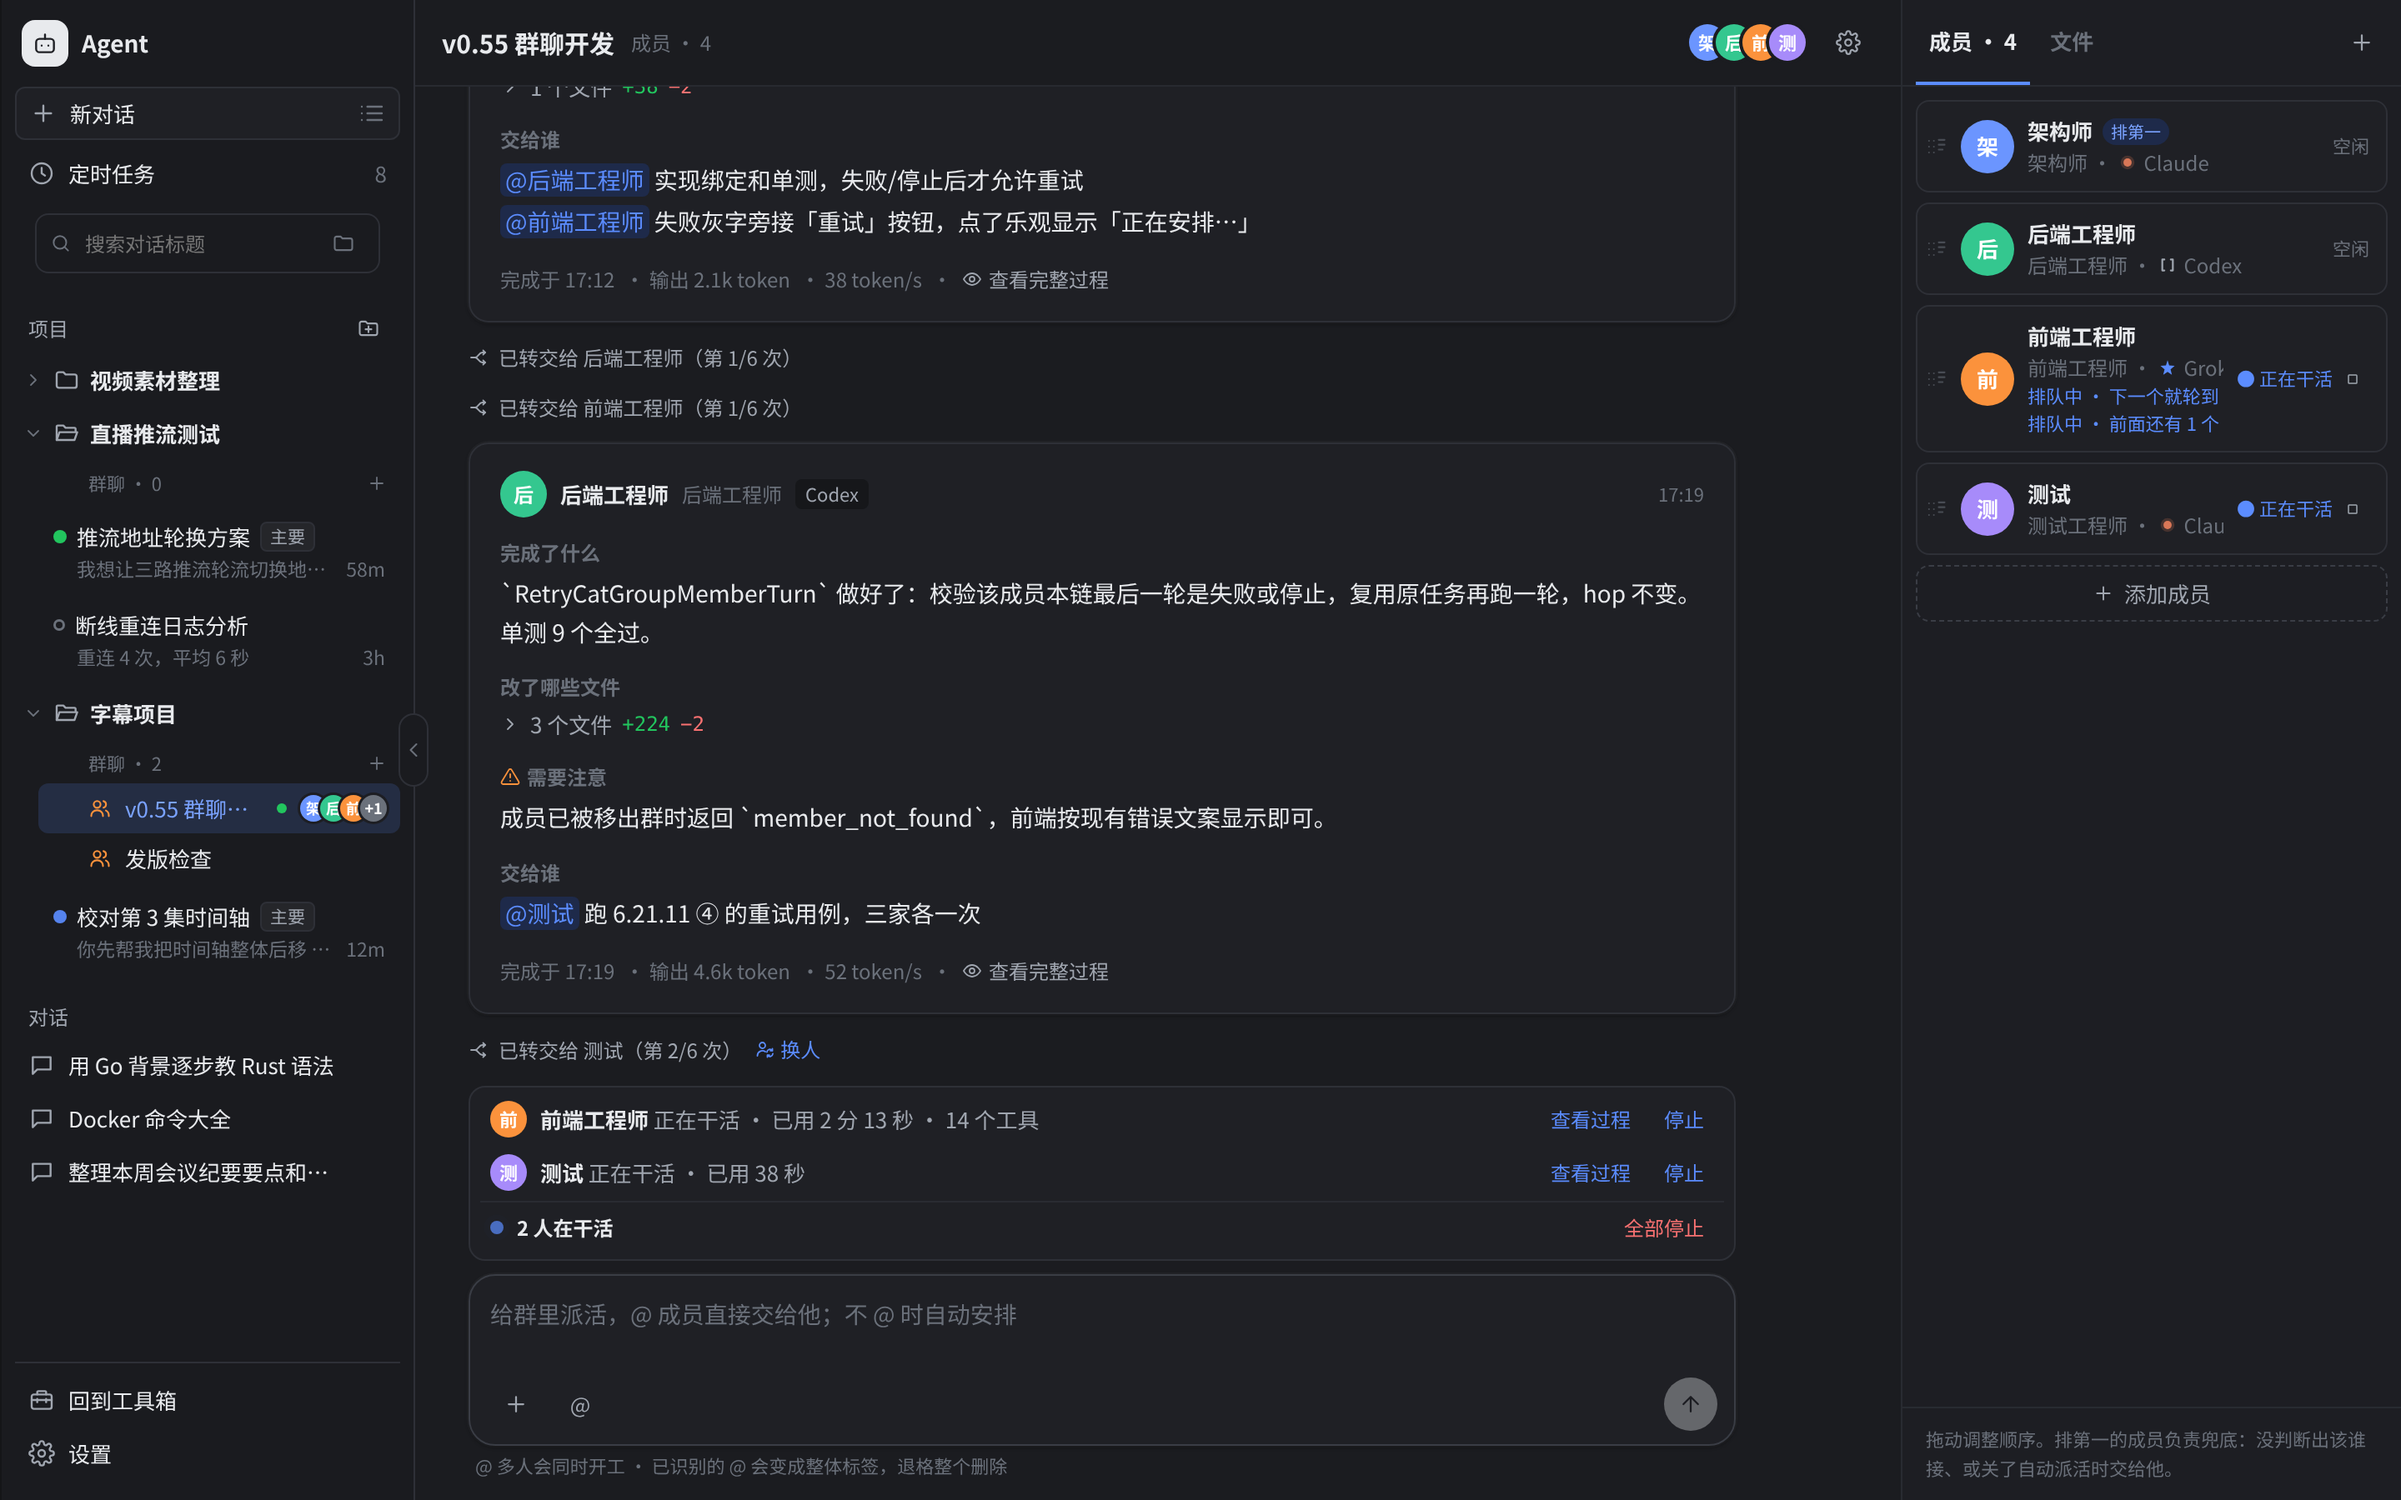
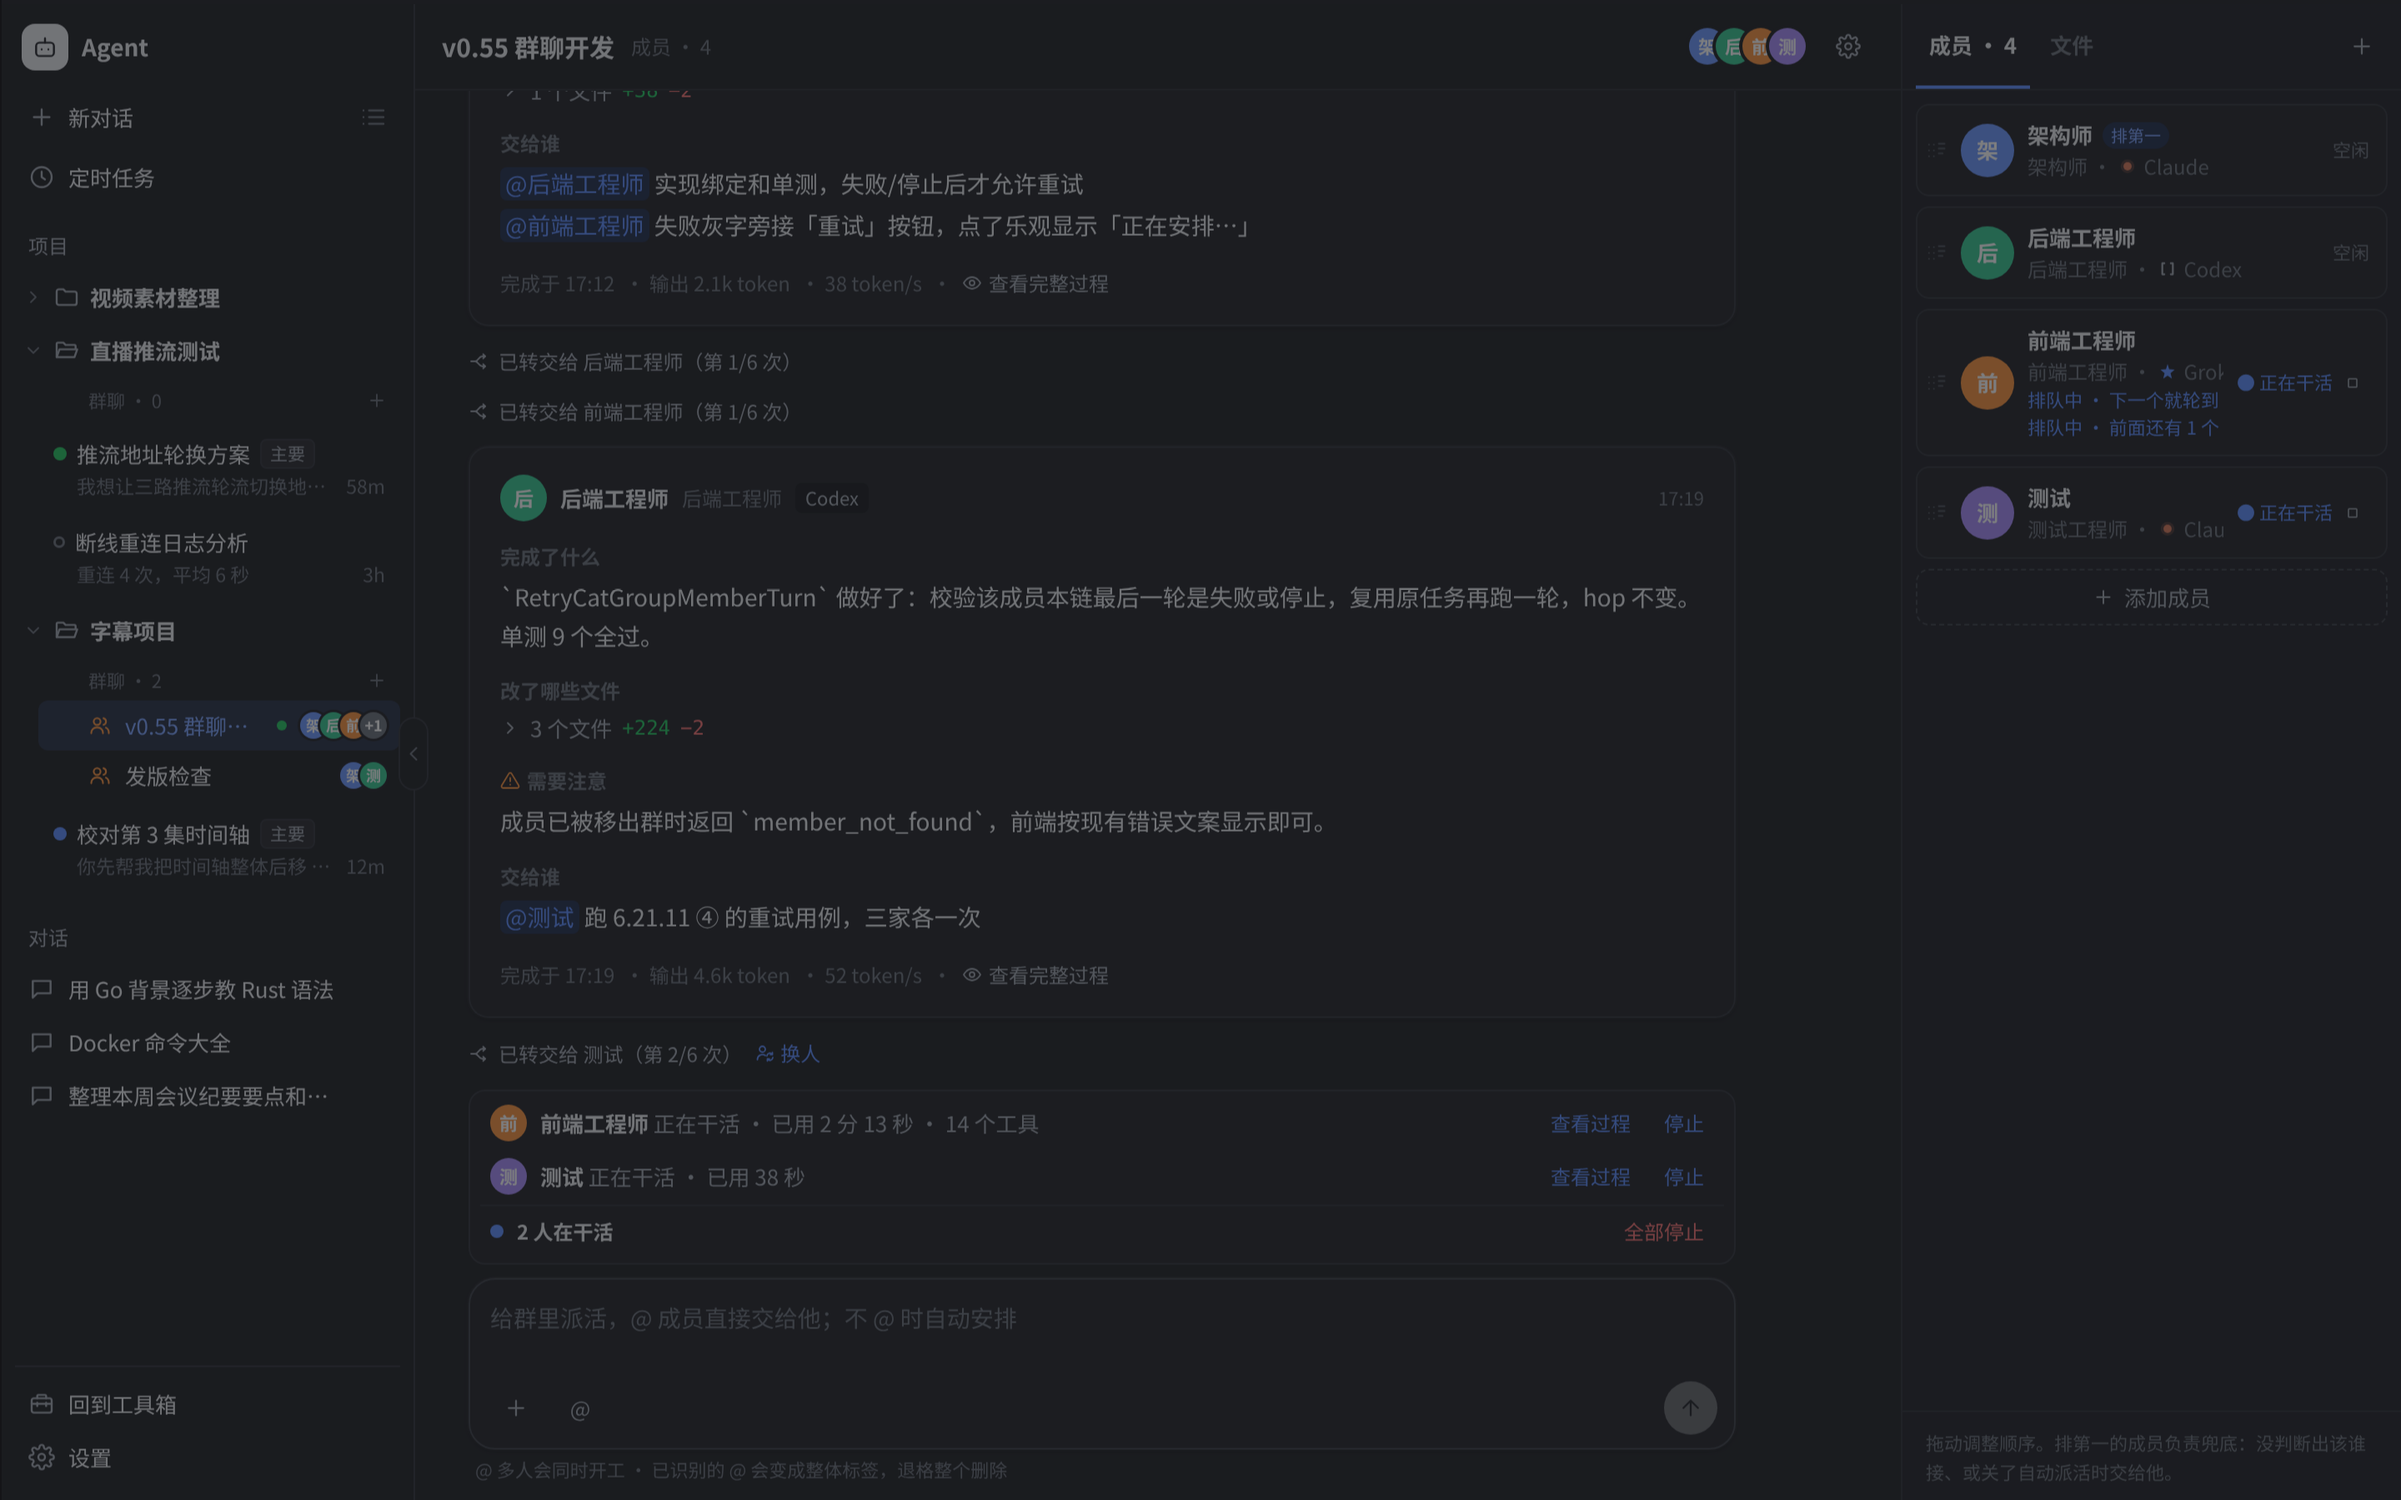
fix(cat-group): v0.55.7 bindings integration (status/queueLength types, preview dialog placement) + shots

diff --git a/frontend/src/components/cat/group/CatGroupMembers.vue b/frontend/src/components/cat/group/CatGroupMembers.vue
@@ -32,7 +32,6 @@
         <span v-else-if="f.overreach" class="cg-tag over">{{ t('cat.groupChat.tagOverreach') }}</span>
       </button>
     </div>
-    <CatPreviewDialog v-model:open="previewOn" :file="previewFile" />
     <div v-else class="cg-mem-list" role="list">
       <div
         v-for="(m, i) in store.membersSorted"
@@ -79,6 +78,7 @@
       <button type="button" class="cg-add" data-testid="cat-group-add-member" @click="emit('add')"><FIcon name="plus" :size="13" />{{ t('cat.groupChat.addMember') }}</button>
     </div>
     <div v-if="tab === 'm'" class="cg-mem-ft">{{ t('cat.groupChat.membersFoot') }}</div>
+    <CatPreviewDialog v-model:open="previewOn" :file="previewFile" />
   </aside>
 </template>
 
@@ -121,7 +121,8 @@ const toggle = (id: string) => {
   open.clear()
   if (!was) open.add(id)
 }
-const tab = ref<'m' | 'f'>('m')
+// 走查截图用：?cat_group_tab=f 直接停在文件页（真实环境无此参数）
+const tab = ref<'m' | 'f'>(new URLSearchParams(location.search).get('cat_group_tab') === 'f' ? 'f' : 'm')
 const CLI: Record<string, string> = { claude_cli: 'Claude', codex_cli: 'Codex', cat_build: 'Grok Build', gemini_cli: 'Gemini' }
 const cliName = (k: string) => CLI[k] ?? k
 /** 排队文案：n=0 与 n≥1 用两个 key，产品改口径时只换 key（6.21.17 ④-4） */

diff --git a/frontend/src/api/catGroupChat.ts b/frontend/src/api/catGroupChat.ts
@@ -63,6 +63,8 @@ export interface CatGroupMember {
   charter: CatCharter
   /** v0.55.6：运行时只读，不落库 */
   status?: string
+  /** 排队总数（不是 n；n 取 queue[].queuePosition） */
+  queueLength?: number
   queue?: CatGroupQueuedTask[]
 }
 export interface CatGroupFileTag {
